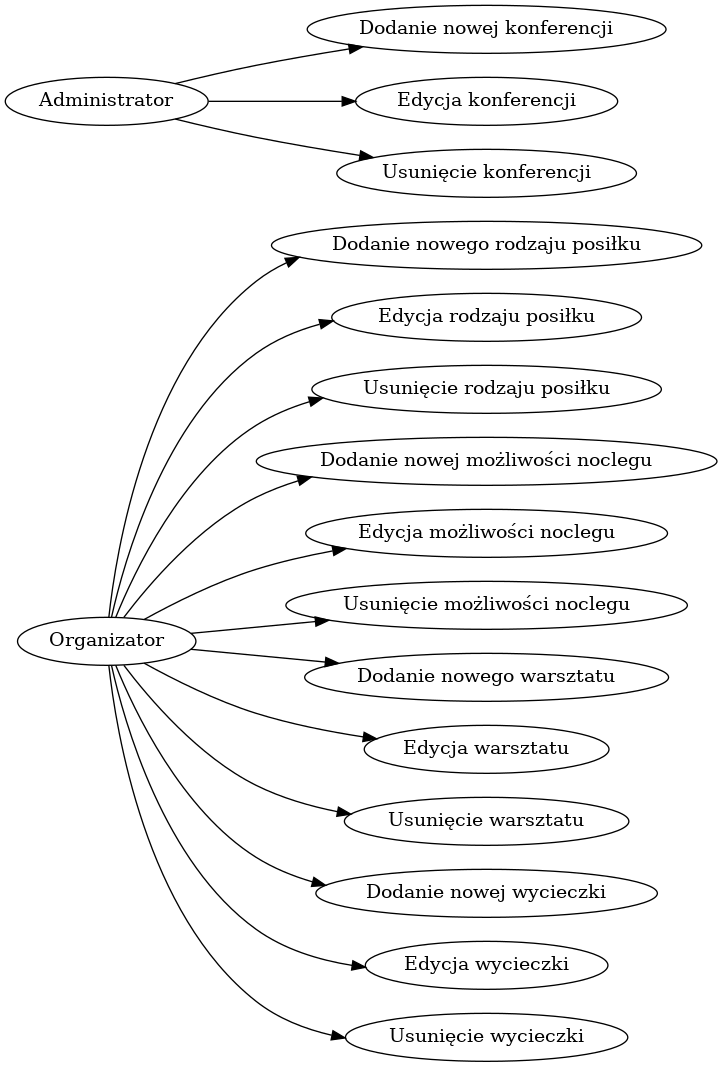
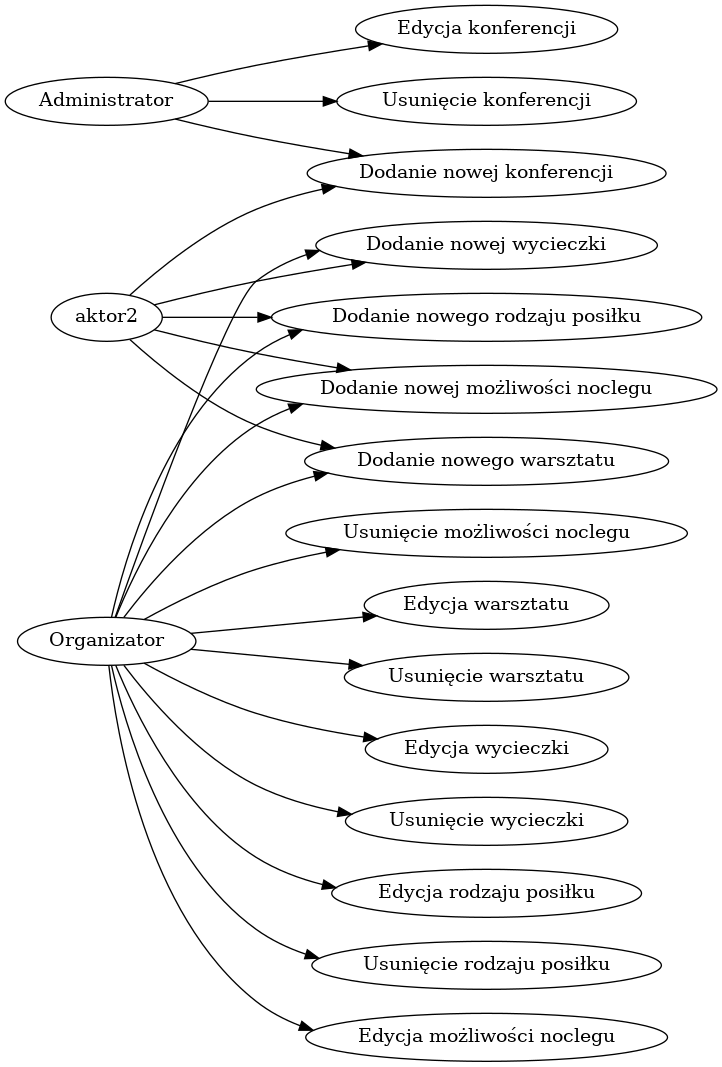
Changes so far

diff --git a/iop.html b/iop.html
@@ -23,7 +23,7 @@
 <script>setTimeout(function() { location.reload(); }, 1000);</script>
 <h2 id="przypadki-biznesowe">Przypadki Biznesowe</h2>
 <h3 id="pb1-dodanie-nowego-rodzaju-posiłku">PB1 Dodanie nowego rodzaju posiłku</h3>
-<p>Aktorzy: Organizator</p>
+<p>Aktorzy: Organizator, aktor2</p>
 <p><em>Scenariusz główny:</em></p>
 <ol style="list-style-type: decimal">
 <li>Organizator wybiera opcję &quot;Dodanie nowego rodzaju posiłku&quot;.</li>
@@ -77,7 +77,7 @@
 <li>Powrót do punktu 1.</li>
 </ol>
 <h3 id="pb4-dodanie-nowej-możliwości-noclegu">PB4 Dodanie nowej możliwości noclegu</h3>
-<p>Aktorzy: Organizator</p>
+<p>Aktorzy: Organizator, aktor2</p>
 <p><em>Scenariusz główny:</em></p>
 <ol style="list-style-type: decimal">
 <li>Organizator wybiera opcję &quot;Dodanie nowej możliwości noclegu&quot;.</li>
@@ -124,7 +124,7 @@
 <li>System wyświetla komunikat o sukcesie.</li>
 </ol>
 <h3 id="pb7-dodanie-nowego-warsztatu">PB7 Dodanie nowego warsztatu</h3>
-<p>Aktorzy: Organizator</p>
+<p>Aktorzy: Organizator, aktor2</p>
 <p><em>Scenariusz główny:</em></p>
 <ol style="list-style-type: decimal">
 <li>Organizator wybiera opcję &quot;Dodanie nowego warsztatu&quot;.</li>
@@ -171,7 +171,7 @@
 <li>System wyświetla komunikat o sukcesie.</li>
 </ol>
 <h3 id="pb10-dodanie-nowej-wycieczki">PB10 Dodanie nowej wycieczki</h3>
-<p>Aktorzy: Organizator</p>
+<p>Aktorzy: Organizator, aktor2</p>
 <p><em>Scenariusz główny:</em></p>
 <ol style="list-style-type: decimal">
 <li>Organizator wybiera opcję &quot;Dodanie nowej wycieczki&quot;.</li>
@@ -218,7 +218,7 @@
 <li>System wyświetla komunikat o sukcesie.</li>
 </ol>
 <h3 id="pb13-dodanie-nowej-konferencji">PB13 Dodanie nowej konferencji</h3>
-<p>Aktorzy: Administrator</p>
+<p>Aktorzy: Administrator, aktor2</p>
 <p><em>Scenariusz główny:</em></p>
 <ol style="list-style-type: decimal">
 <li>Administrator wybiera opcję &quot;Dodanie nowej konferencji&quot;.</li>

diff --git a/gienierator.py b/gienierator.py
@@ -105,7 +105,7 @@ def graph_node(src, dst):
     graph_out.write('"%s" -> "%s"\n' % (src, dst))
 
 def CRUD(thing, fields, delete_alt=None, aktor='Organizator'):
-    PB('Dodanie %s %s' % (thing.new2, thing.dopelniacz), aktor)
+    PB('Dodanie %s %s' % (thing.new2, thing.dopelniacz), aktor + ', aktor2')
     wybiera_opcje(aktor)
     punkt('%s wpisuje %s %s' % (aktor, fields, thing.dopelniacz))
     p_zatw = punkt('%s zatwierdza' % aktor)

diff --git a/iop.md b/iop.md
@@ -18,7 +18,7 @@ organizacja eventu - program wystąpień, eventy typu przyjęcie, wycieczka ze z
 
 ### PB1 Dodanie nowego rodzaju posiłku
 
-Aktorzy: Organizator
+Aktorzy: Organizator, aktor2
 
 _Scenariusz główny:_
 
@@ -81,7 +81,7 @@ _Scenariusz alternatywny 1:_
 
 ### PB4 Dodanie nowej możliwości noclegu
 
-Aktorzy: Organizator
+Aktorzy: Organizator, aktor2
 
 _Scenariusz główny:_
 
@@ -136,7 +136,7 @@ _Scenariusz główny:_
 
 ### PB7 Dodanie nowego warsztatu
 
-Aktorzy: Organizator
+Aktorzy: Organizator, aktor2
 
 _Scenariusz główny:_
 
@@ -191,7 +191,7 @@ _Scenariusz główny:_
 
 ### PB10 Dodanie nowej wycieczki
 
-Aktorzy: Organizator
+Aktorzy: Organizator, aktor2
 
 _Scenariusz główny:_
 
@@ -246,7 +246,7 @@ _Scenariusz główny:_
 
 ### PB13 Dodanie nowej konferencji
 
-Aktorzy: Administrator
+Aktorzy: Administrator, aktor2
 
 _Scenariusz główny:_
 
